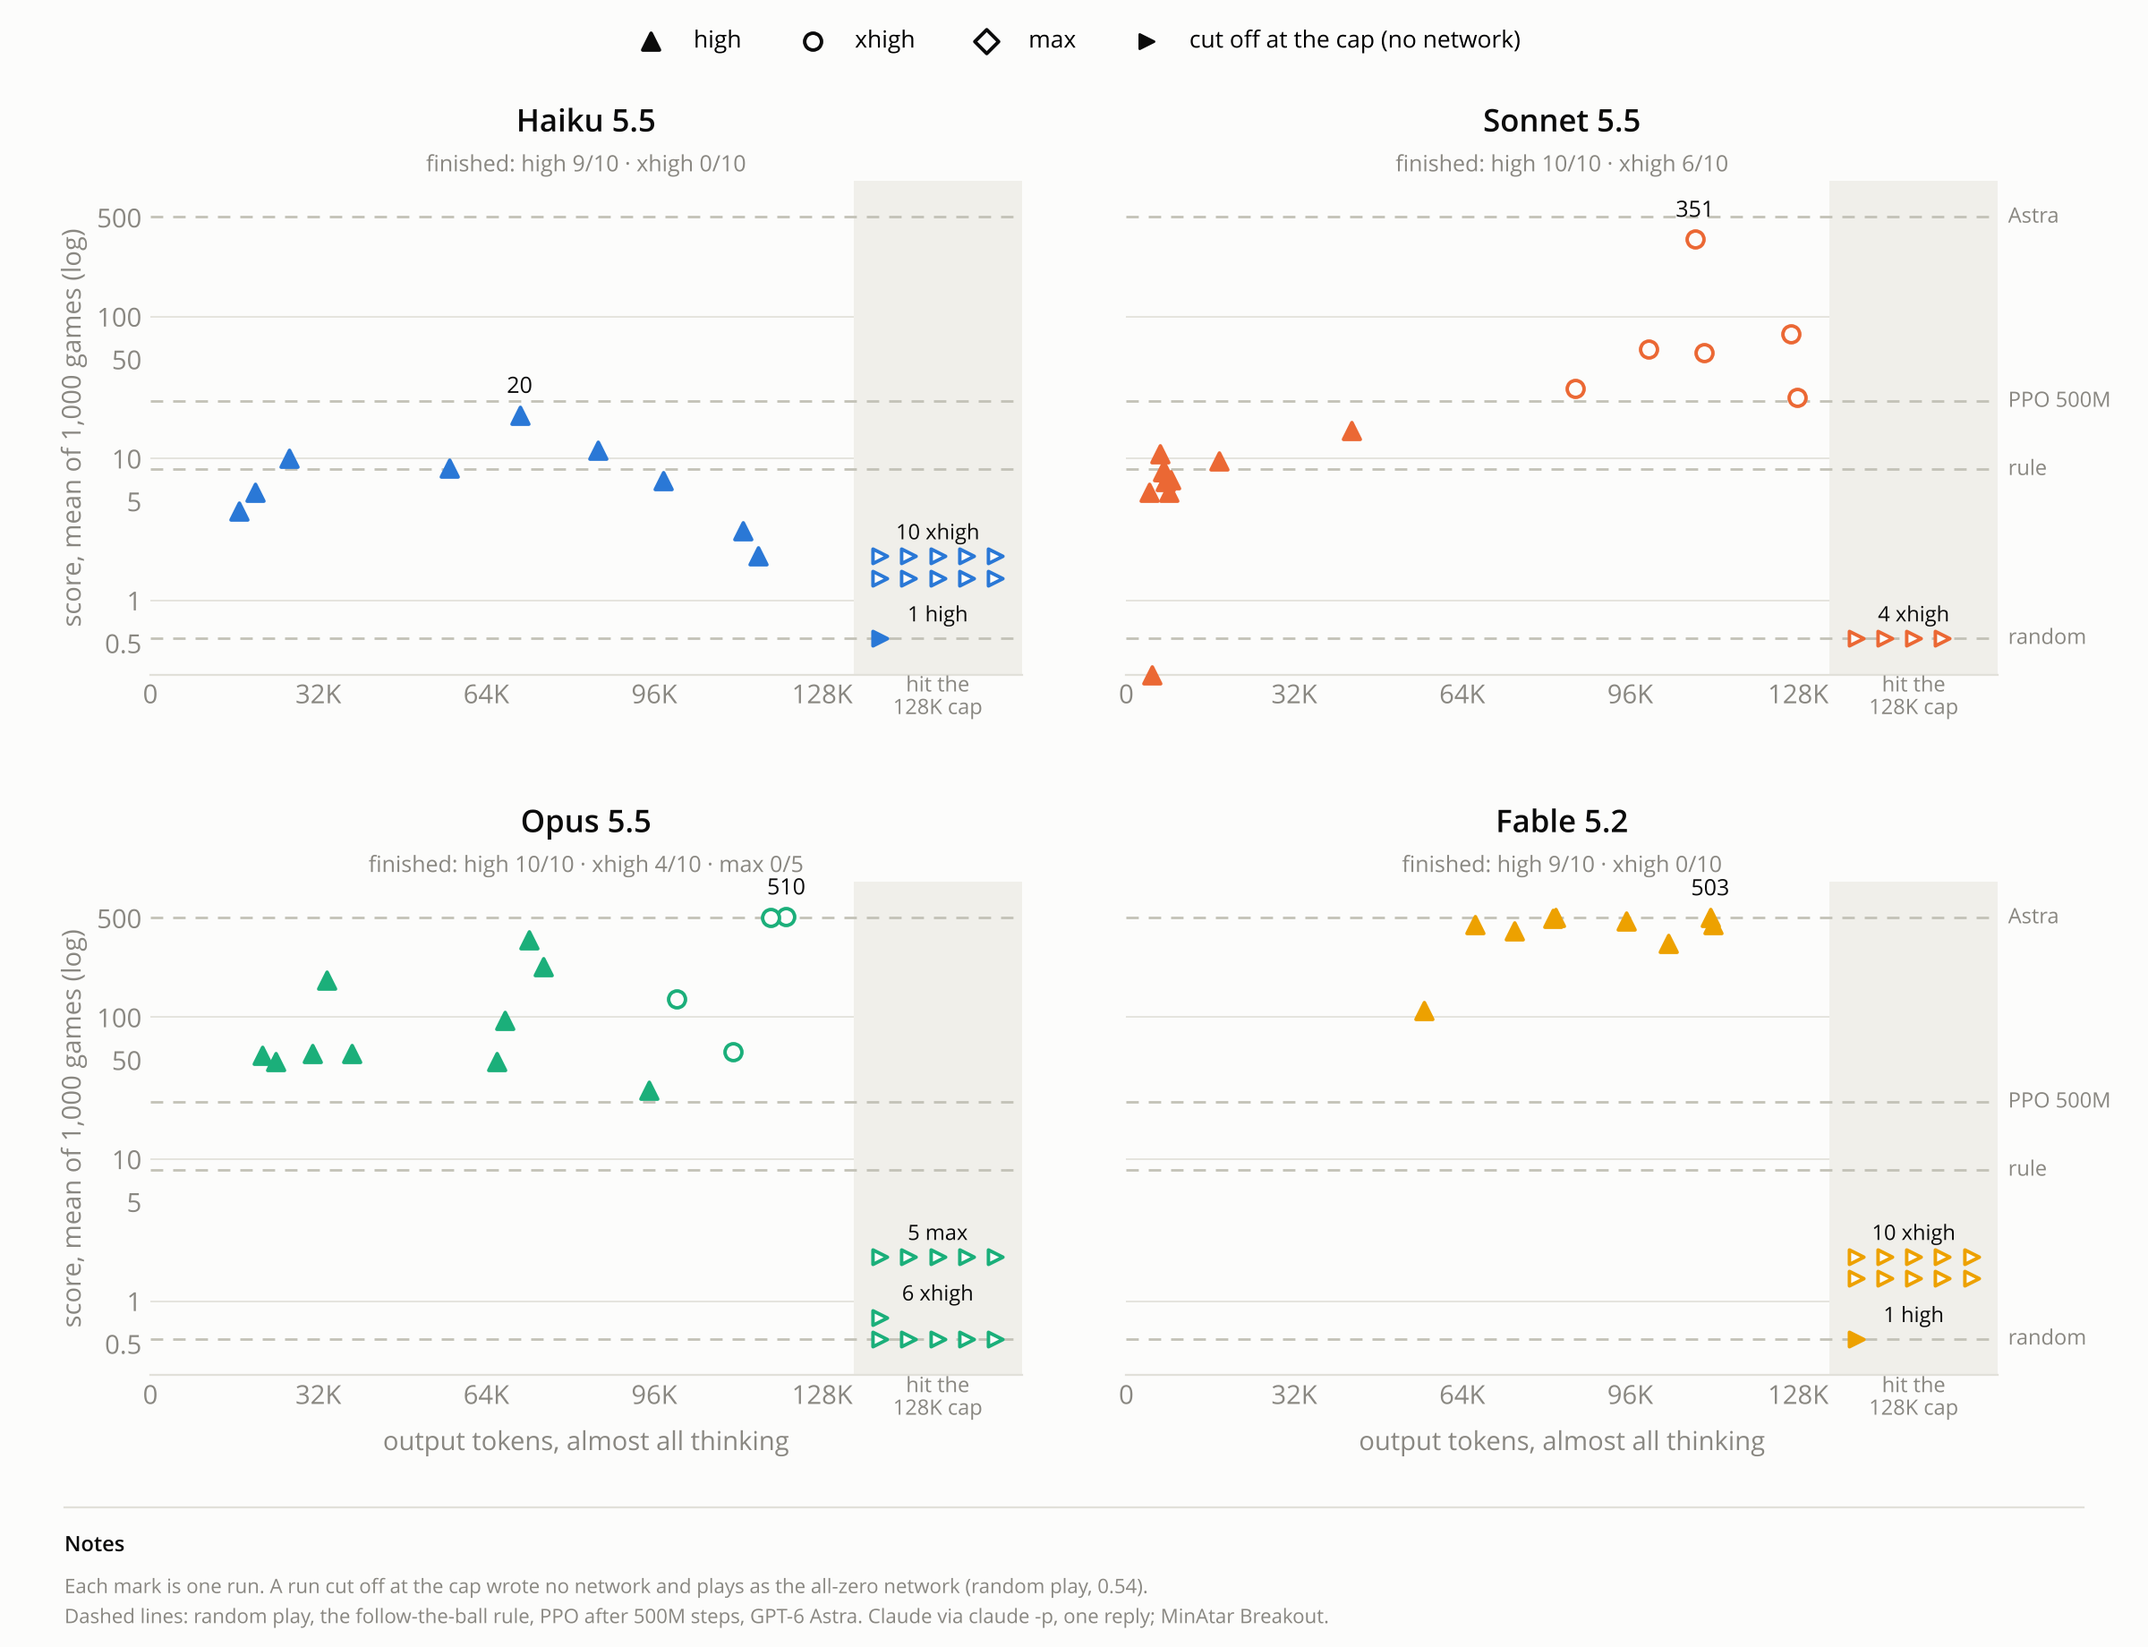
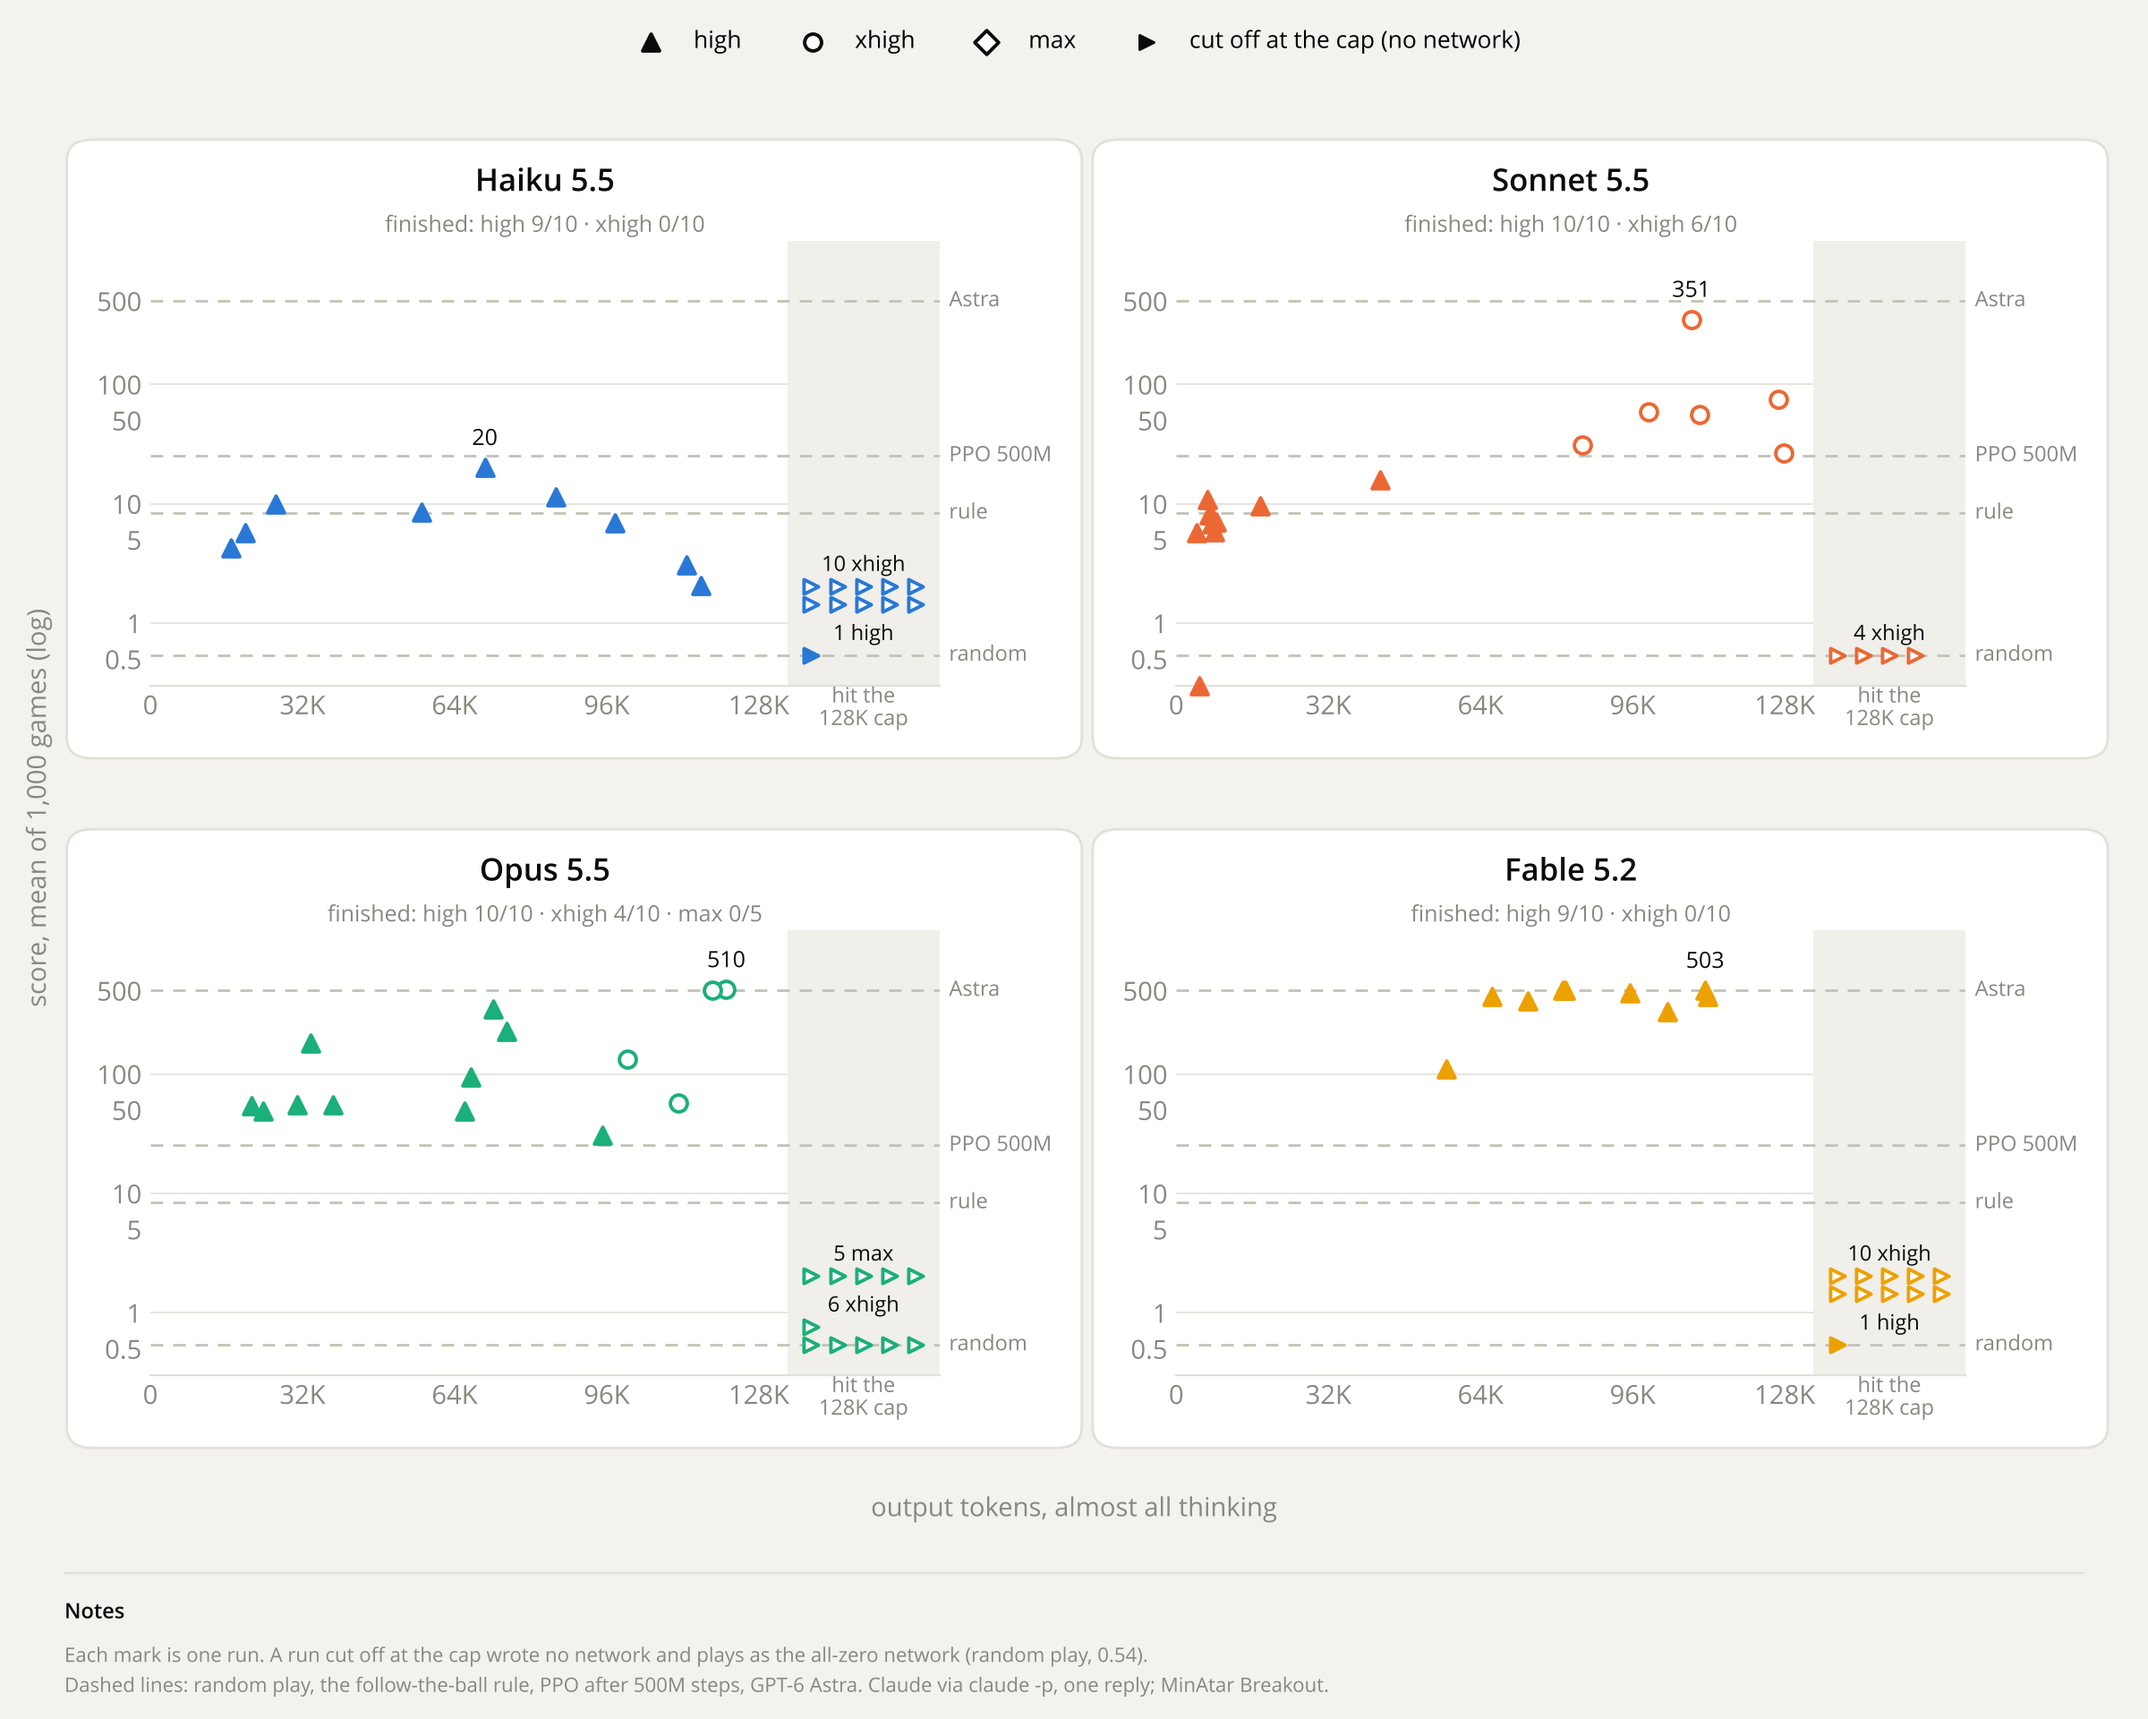
Figure 1: each model panel as its own card; shared axis names; headroom above 500

diff --git a/viz.py b/viz.py
@@ -117,17 +117,18 @@ def dots(out):
     plt.rcParams.update({"font.family": "Open Sans", "font.size": 10.5, "axes.edgecolor": GRID,
                          "text.hinting": "no_hinting", "text.hinting_factor": 1,
                          "xtick.color": MUTED, "ytick.color": MUTED, "axes.labelcolor": MUTED})
-    fig, axs = plt.subplots(2, 2, figsize=(12, 9.2), dpi=200, facecolor=SURFACE, sharex=True, sharey=True,
-                            gridspec_kw={"hspace": 0.42, "wspace": 0.12})
+    BG, CARD = "#f3f2ee", "#ffffff"  # page tint, so each panel reads as its own white card
+    fig, axs = plt.subplots(2, 2, figsize=(12, 9.6), dpi=200, facecolor=BG, sharex=True, sharey=True,
+                            gridspec_kw={"hspace": 0.55, "wspace": 0.3})
     CAP0, CAP1 = 134, 166  # the column past the cap, in thousands of tokens
     for ax, (key, model, color) in zip(axs.flat, MODELS):
         arms = [(e, mk, filled, runs) for e, mk, filled in EFFORTS if (runs := counted_runs(f"{key}-{e}"))]
-        ax.set_facecolor(SURFACE)
+        ax.set_facecolor(CARD)
         ax.tick_params(length=0, which="both")
         for side in ("top", "right", "left"):
             ax.spines[side].set_visible(False)
         ax.set_yscale("log")
-        ax.set_ylim(0.3, 900)
+        ax.set_ylim(0.3, 1600)  # headroom so the best-score label clears the subtitle
         ax.set_xlim(0, CAP1)
         for v in (1, 10, 100):
             ax.axhline(v, color=GRID, lw=0.6, zorder=0)
@@ -136,8 +137,7 @@ def dots(out):
                 transform=ax.transData)
         for v, name in REFS:
             ax.axhline(v, color=TRAIL, lw=1, ls=(0, (5, 4)), zorder=1)
-            if ax in axs[:, 1]:
-                ax.text(CAP1 + 2, v, name, va="center", fontsize=8.5, color=MUTED, clip_on=False)
+            ax.text(CAP1 + 2, v, name, va="center", fontsize=8.5, color=MUTED, clip_on=False)
         counts = " · ".join(f"{e} {sum(r['kind'] == 'wrote' for r in runs)}/{len(runs)}" for e, _, _, runs in arms)
         ax.set_title(model, loc="center", fontsize=12.5, fontweight="semibold", color=INK, pad=20)
         ax.text(0.5, 1.02, f"finished: {counts}", transform=ax.transAxes, ha="center", fontsize=9, color=MUTED)
@@ -145,7 +145,7 @@ def dots(out):
         fin = [(e, mk, f, r) for e, mk, f, runs in arms for r in runs if r["tokens"] is not None]
         for e, mk, f, r in fin:
             ax.scatter(r["tokens"] / 1000, max(r["score"], 0.3), marker=mk, edgecolors=color,
-                       facecolors=color if f else SURFACE, clip_on=False, **m)  # 0.00 (sonnet-high/04) on the floor
+                       facecolors=color if f else CARD, clip_on=False, **m)  # 0.00 (sonnet-high/04) on the floor
         if fin:  # the panel's best network, named
             e, _, _, b = max(fin, key=lambda t: t[3]["score"])
             ax.annotate(f"{b['score']:.0f}", (b["tokens"] / 1000, b["score"]), xytext=(0, 9),
@@ -156,7 +156,7 @@ def dots(out):
             cut = [r for r in runs if r["tokens"] is None]
             for i, r in enumerate(cut):
                 ax.scatter(CAP0 + 5 + (i % 5) * 5.5, 0.54 * 1.42 ** (row + i // 5), marker=">", edgecolors=color,
-                           facecolors=color if f else SURFACE, **dict(m, s=34))
+                           facecolors=color if f else CARD, **dict(m, s=34))
             if cut:
                 row += -(-len(cut) // 5)
                 ax.text((CAP0 + CAP1) / 2, 0.54 * 1.42 ** (row - 0.45), f"{len(cut)} {e}", ha="center", va="bottom",
@@ -165,13 +165,12 @@ def dots(out):
         ax.set_yticks([0.5, 1, 5, 10, 50, 100, 500], ["0.5", "1", "5", "10", "50", "100", "500"])
         ax.yaxis.set_minor_formatter(matplotlib.ticker.NullFormatter())
         ax.set_xticks([0, 32, 64, 96, 128], ["0", "32K", "64K", "96K", "128K"])
-        ax.tick_params(labelbottom=True)
-    for ax in axs[1]:
-        ax.set_xlabel("output tokens, almost all thinking", labelpad=8)
-    for ax in axs[:, 0]:
-        ax.set_ylabel("score, mean of 1,000 games (log)")
+        ax.tick_params(labelbottom=True, labelleft=True)
+    # axis names once for the figure, outside the cards, so all four cards hold the same things
+    fig.text(0.5, 0.118, "output tokens, almost all thinking", ha="center", color=MUTED)
+    fig.text(0.012, 0.53, "score, mean of 1,000 games (log)", rotation=90, va="center", color=MUTED)
     for e, mk, f in EFFORTS:
-        axs[0, 0].scatter([], [], marker=mk, edgecolors=INK, facecolors=INK if f else SURFACE, s=46, linewidths=1.4,
+        axs[0, 0].scatter([], [], marker=mk, edgecolors=INK, facecolors=INK if f else CARD, s=46, linewidths=1.4,
                           label=e)
     axs[0, 0].scatter([], [], marker=">", edgecolors=INK, facecolors=INK, s=34, label="cut off at the cap (no network)")
     fig.legend(loc="upper center", bbox_to_anchor=(0.5, 0.995), ncol=4, frameon=False, fontsize=9.5)
@@ -182,8 +181,21 @@ def dots(out):
              " network (random play, 0.54).\nDashed lines: random play, the follow-the-ball rule, PPO after 500M"
              " steps, GPT-6 Astra. Claude via claude -p, one reply; MinAtar Breakout.", fontsize=8, color=MUTED,
              va="top", linespacing=1.5)
-    fig.subplots_adjust(left=0.07, right=0.93, top=0.89, bottom=0.165)
-    fig.savefig(out, facecolor=SURFACE)
+    fig.subplots_adjust(left=0.07, right=0.915, top=0.86, bottom=0.2)
+    # cards: one rounded white box per panel, the same overhang on every panel (the largest one needed)
+    fig.canvas.draw()
+    inv, rend = fig.transFigure.inverted(), fig.canvas.get_renderer()
+    boxes = [(ax.get_position(), ax.get_tightbbox(rend).transformed(inv)) for ax in axs.flat]
+    padx, pady = 0.014, 0.016
+    L = max(p.x0 - t.x0 for p, t in boxes) + padx
+    R = max(t.x1 - p.x1 for p, t in boxes) + padx
+    B = max(p.y0 - t.y0 for p, t in boxes) + pady
+    T = max(t.y1 - p.y1 for p, t in boxes) + pady
+    for p, _ in boxes:
+        fig.patches.append(matplotlib.patches.FancyBboxPatch(
+            (p.x0 - L, p.y0 - B), p.width + L + R, p.height + B + T, transform=fig.transFigure, zorder=-1,
+            boxstyle="round,pad=0,rounding_size=0.012", facecolor=CARD, edgecolor=GRID, lw=1))
+    fig.savefig(out, facecolor=BG)
 
 
 CHANNELS = [(0, "paddle"), (3, "ball"), (4, "ball's last cell")]  # the only inputs Breakout fills, besides bricks
